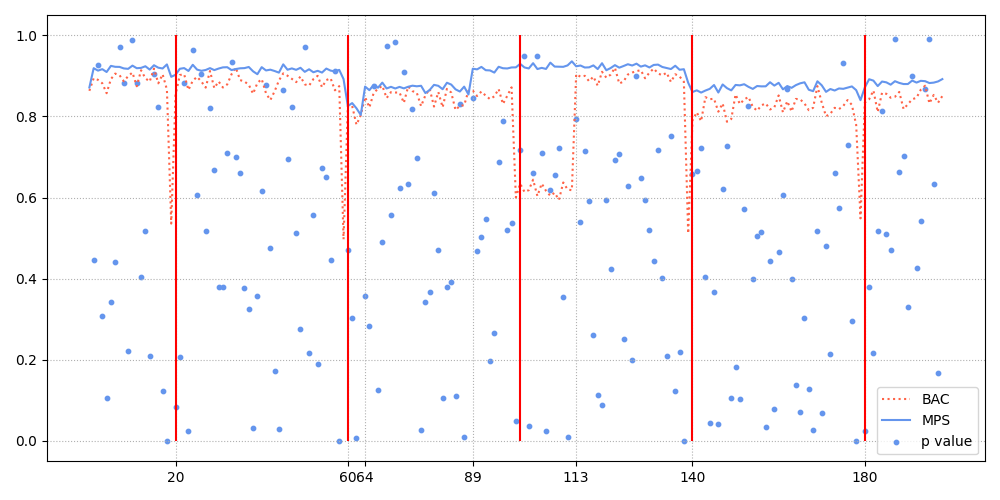
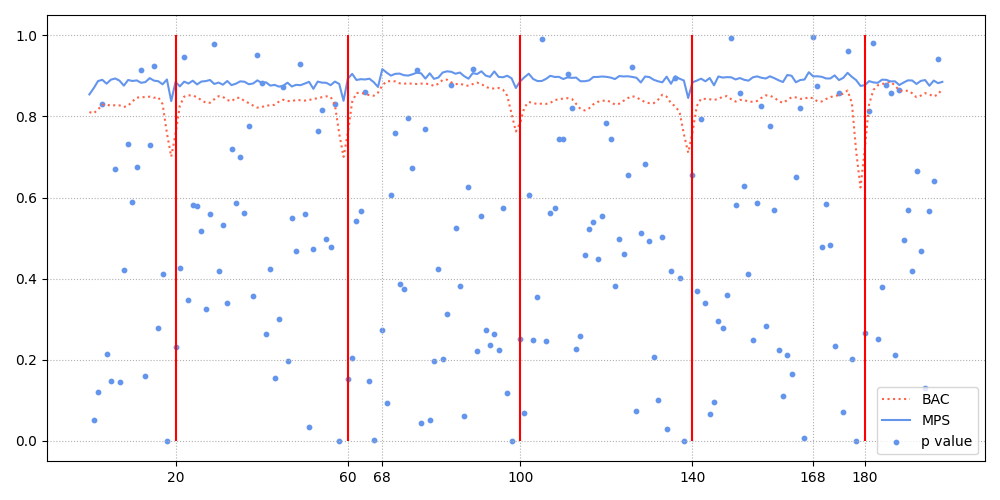
PSK

diff --git a/poc_ttest_acc2.py b/poc_ttest_acc2.py
@@ -1,3 +1,5 @@
+## Tutaj label access próbek brane pod uwagę!
+
 import numpy as np
 from sklearn.neural_network import MLPClassifier
 from sklearn.naive_bayes import GaussianNB
@@ -12,7 +14,6 @@ from scipy.stats import ttest_ind
 ## ttest ind
 
 
-
 n_chunks = 200
 epochs = 150
 
@@ -21,11 +22,11 @@ real_drifts += (real_drifts[1]/2)
 
 
 stream = StreamGenerator(n_chunks=n_chunks,
-                         chunk_size=500,
+                         chunk_size=300,
                          n_drifts=5,
-                         n_classes=2,
-                         n_features=25,
-                         n_informative=5,
+                         n_classes=5,
+                         n_features=10,
+                         n_informative=10,
                          n_redundant=0,
                          n_repeated=0, 
                          concept_sigmoid_spacing=500)
@@ -43,19 +44,23 @@ detected = True
 
 prevs = []
 
-alpha=0.01
+alpha=0.001
+label_acces = 0.1
 
 for chunk_id in range(n_chunks):
     X, y = stream.get_chunk()
     
     # test
     if chunk_id>0:
-        ps = np.max(clf.predict_proba(X), axis=1)    
+        accessed = np.random.choice(len(y), size=int(label_acces*len(y)), replace=False)
+        errs = (clf.predict(X[accessed]) != y[accessed]).astype(int)
+        print(errs.shape)
         bac = balanced_accuracy_score(y, clf.predict(X))
+    
         
         if len(sup)>0:
             # test hipotez
-            stat, p_val = ttest_ind(ps, np.array(prevs).flatten())     
+            stat, p_val = ttest_ind(errs, np.array(prevs).flatten())     
             p_vals.append(p_val)   
             print(stat,p_val)
 
@@ -65,11 +70,11 @@ for chunk_id in range(n_chunks):
                 prevs = []
             else:
                 detected = False
-                prevs.append(ps)
+                prevs.append(errs)
      
         res.append(bac)
         # res_observed.append(bac_observed)
-        sup.append(np.mean(ps))
+        sup.append(np.mean(errs))
         
         # time.sleep(1)
         
@@ -77,7 +82,7 @@ for chunk_id in range(n_chunks):
     print(drifts, detected)
     if detected==True or chunk_id<1:
         print('TRAINING', drifts)
-        [clf.partial_fit(X, y, np.arange(2)) for e in range(epochs)]
+        [clf.partial_fit(X, y, np.arange(5)) for e in range(epochs)]
     
 
 print(drifts)

diff --git a/vapor/test_protocol.py b/vapor/test_protocol.py
@@ -1,0 +1,66 @@
+import numpy as np
+from sklearn.neural_network import MLPClassifier
+from sklearn.naive_bayes import GaussianNB
+from strlearn.streams import StreamGenerator
+from sklearn.metrics import balanced_accuracy_score
+import matplotlib.pyplot as plt
+from methods import certaintyEns, get_real_drifts
+from skmultiflow.meta import LeverageBagging
+from Protocol import Protocol
+from sklearn.base import clone
+
+class MLPwrap:
+    def __init__(self, clf, n_epochs=150):
+        self.clf = clone(clf)
+        self.n_epochs = n_epochs
+        
+    def partial_fit(self, X, y, classes):
+        [self.clf.partial_fit(X, y, classes) for i in range(self.n_epochs)]
+        return self
+    
+    def predict(self, X):
+        return self.clf.predict(X)
+
+n_chunks = 250
+stream = StreamGenerator(n_chunks=n_chunks,
+                         chunk_size=200,
+                         n_drifts=5,
+                         n_classes=3,
+                         n_features=30,
+                         n_informative=30,
+                         n_redundant=0,
+                         n_repeated=0, 
+                         concept_sigmoid_spacing=(5))
+
+protocol = Protocol(metrics=balanced_accuracy_score, n_test=50)
+
+clfs = [
+    GaussianNB(),
+    MLPwrap(MLPClassifier()),
+    LeverageBagging()]
+
+protocol.process(stream, clfs)
+
+print(protocol.scores.shape)
+res = protocol.scores
+
+train_chunks = protocol.train_chunks
+
+real_drifts = np.linspace(0,n_chunks,6)[:-1]
+real_drifts += (real_drifts[1]/2)
+
+cols = plt.cm.twilight(np.linspace(0.2,0.8,res.shape[0]))
+
+fig, ax = plt.subplots(1,1,figsize=(10,5))
+ax.plot(res[0,:,0], label='GNB', color=cols[0])
+ax.plot(res[1,:,0], label='MLP', color=cols[1])
+ax.plot(res[2,:,0], label='LBC', color=cols[2])
+ax.vlines(real_drifts,0,1, color='red', ls=':')
+ax.set_xticks(train_chunks)
+ax.set_xlabel('train_chunks')
+
+ax.legend()
+ax.grid(ls=':')
+
+plt.tight_layout()
+plt.savefig('foo.png')

diff --git a/vapor/Protocol.py b/vapor/Protocol.py
@@ -5,22 +5,25 @@ from tqdm import tqdm
 from sklearn.metrics import balanced_accuracy_score
 
 class Protocol:
-    def __init__(self, metrics=(accuracy_score, balanced_accuracy_score), verbose=False):
+    def __init__(self, 
+                 n_test = 10,
+                 metrics=(accuracy_score, balanced_accuracy_score), 
+                 verbose=True):
+
+        self.n_test = n_test
+        
         if isinstance(metrics, (list, tuple)):
             self.metrics = metrics
         else:
             self.metrics = [metrics]
         self.verbose = verbose
+        
+        self.train_chunks = []
 
     def process(self, stream, clfs):
-        """
-        Perform learning procedure on data stream.
-
-        :param stream: Data stream as an object
-        :type stream: object
-        :param clfs: scikit-learn estimator of list of scikit-learn estimators.
-        :type clfs: tuple or function
-        """
+        
+        counter = 0
+        
         # Verify if pool of classifiers or one
         if isinstance(clfs, ClassifierMixin):
             self.clfs_ = [clfs]
@@ -37,6 +40,7 @@ class Protocol:
 
         if self.verbose:
             pbar = tqdm(total=stream.n_chunks)
+            
         while True:
             X, y = stream.get_chunk()
             if self.verbose:
@@ -51,8 +55,12 @@ class Protocol:
                         metric(y, y_pred) for metric in self.metrics
                     ]
 
-            # Train
-            [clf.partial_fit(X, y, self.stream_.classes_) for clf in self.clfs_]
+            if counter%self.n_test==0:
+                # Train
+                [clf.partial_fit(X, y, self.stream_.classes_) for clf in self.clfs_]
+                self.train_chunks.append(counter)
+                
+            counter += 1
 
             if stream.is_dry():
                 break

diff --git a/poc_ttest_psk.py b/poc_ttest_psk.py
@@ -8,16 +8,15 @@ from scipy.ndimage import gaussian_filter1d
 import time
 from scipy.stats import ttest_ind
 
-## Support nie uśredniony tylko dla wsadu + test hipotez || proby niezal.
-## ttest ind
 
+## Klasyfikator szkolony do określonego MPS
 
 
 n_chunks = 200
-epochs = 150
-
 real_drifts = np.linspace(0,n_chunks,6)[:-1]
 real_drifts += (real_drifts[1]/2)
+
+mps_th=0.9
 
 
 stream = StreamGenerator(n_chunks=n_chunks,
@@ -30,7 +29,7 @@ stream = StreamGenerator(n_chunks=n_chunks,
                          n_repeated=0, 
                          concept_sigmoid_spacing=500)
 
-clf = MLPClassifier(hidden_layer_sizes=(10,10,10))
+clf = MLPClassifier(hidden_layer_sizes=(10))
 # clf = GaussianNB()
 
 res = []
@@ -77,17 +76,21 @@ for chunk_id in range(n_chunks):
     print(drifts, detected)
     if detected==True or chunk_id<1:
         print('TRAINING', drifts)
-        [clf.partial_fit(X, y, np.arange(2)) for e in range(epochs)]
+        while(1):
+            clf.partial_fit(X, y, np.arange(2))
+            mps = np.mean(np.max(clf.predict_proba(X), axis=1))
+            print(mps)
+            if mps>=mps_th:
+                break
     
 
 print(drifts)
 p_vals = np.array(p_vals)
 
-s = 0.1
+s = 1
 fig, ax = plt.subplots(1,1,figsize=(10,5))
 ax.plot(gaussian_filter1d(res, s), label='BAC', color='tomato', ls=':')
-# ax.plot(gaussian_filter1d(res_observed, s), label='BAC observed', color='tomato')
-ax.plot(gaussian_filter1d(sup, s), label='MPS', color='cornflowerblue')
+ax.plot(sup, label='MPS', color='cornflowerblue')
 ax.scatter(np.arange(len(p_vals)), p_vals, label='p value', color='cornflowerblue', s=10)
 ax.vlines(real_drifts,0,1, color='red')
 ax.set_xticks(drifts)

diff --git a/poc_ttest_acc.py b/poc_ttest_acc.py
@@ -11,8 +11,6 @@ from scipy.stats import ttest_ind
 ## Support nie uśredniony tylko dla wsadu + test hipotez || proby niezal.
 ## ttest ind
 
-
-
 n_chunks = 200
 epochs = 150
 
